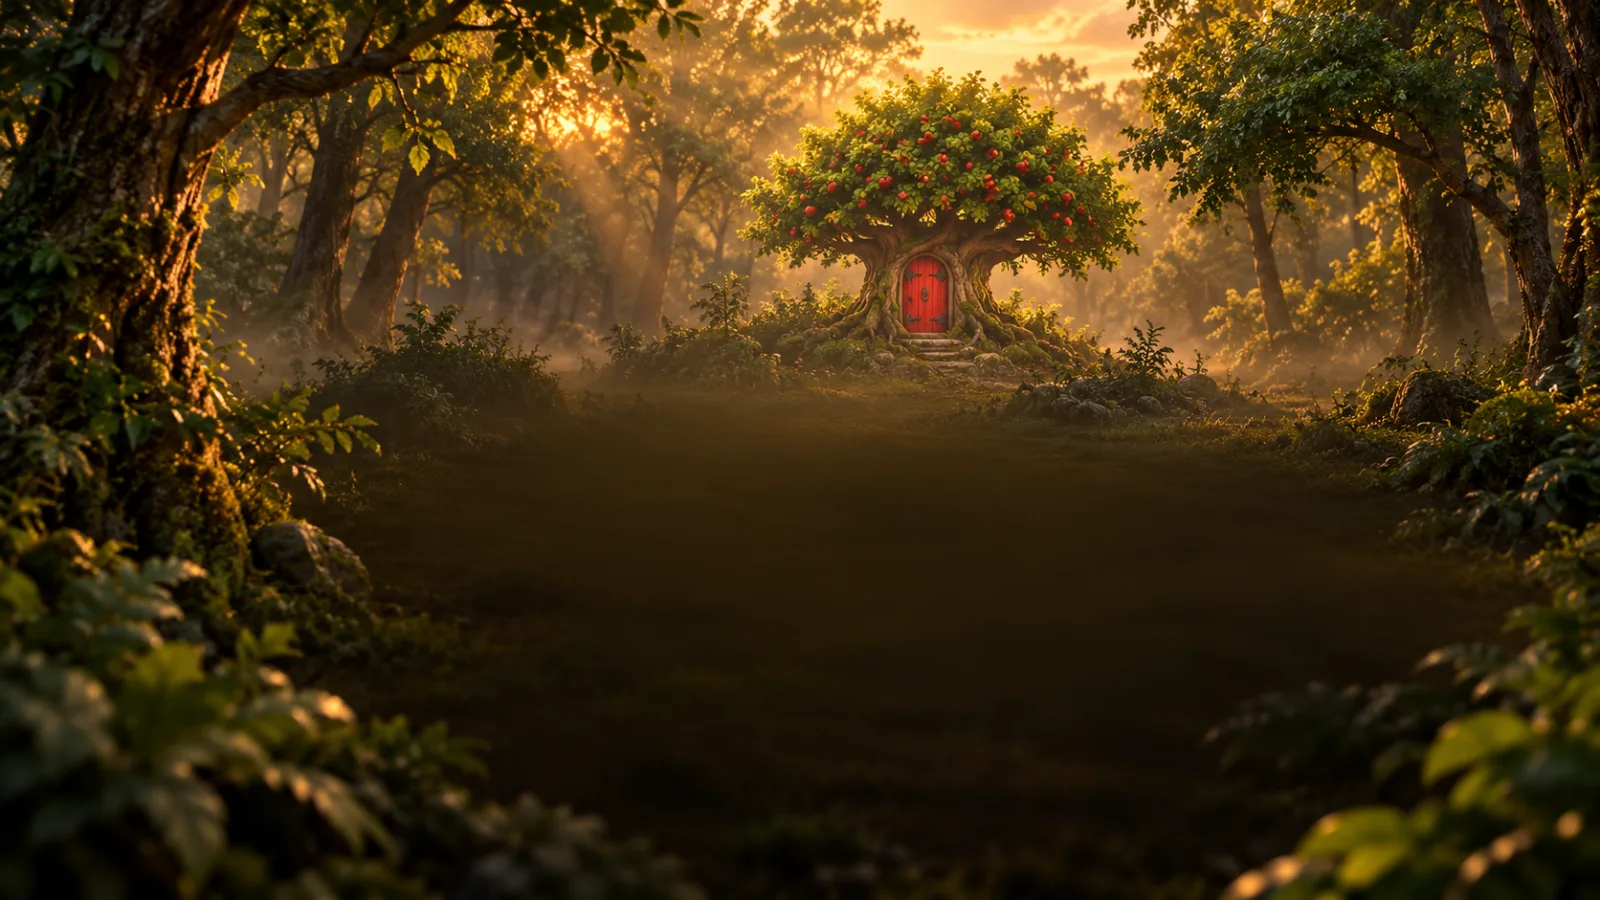
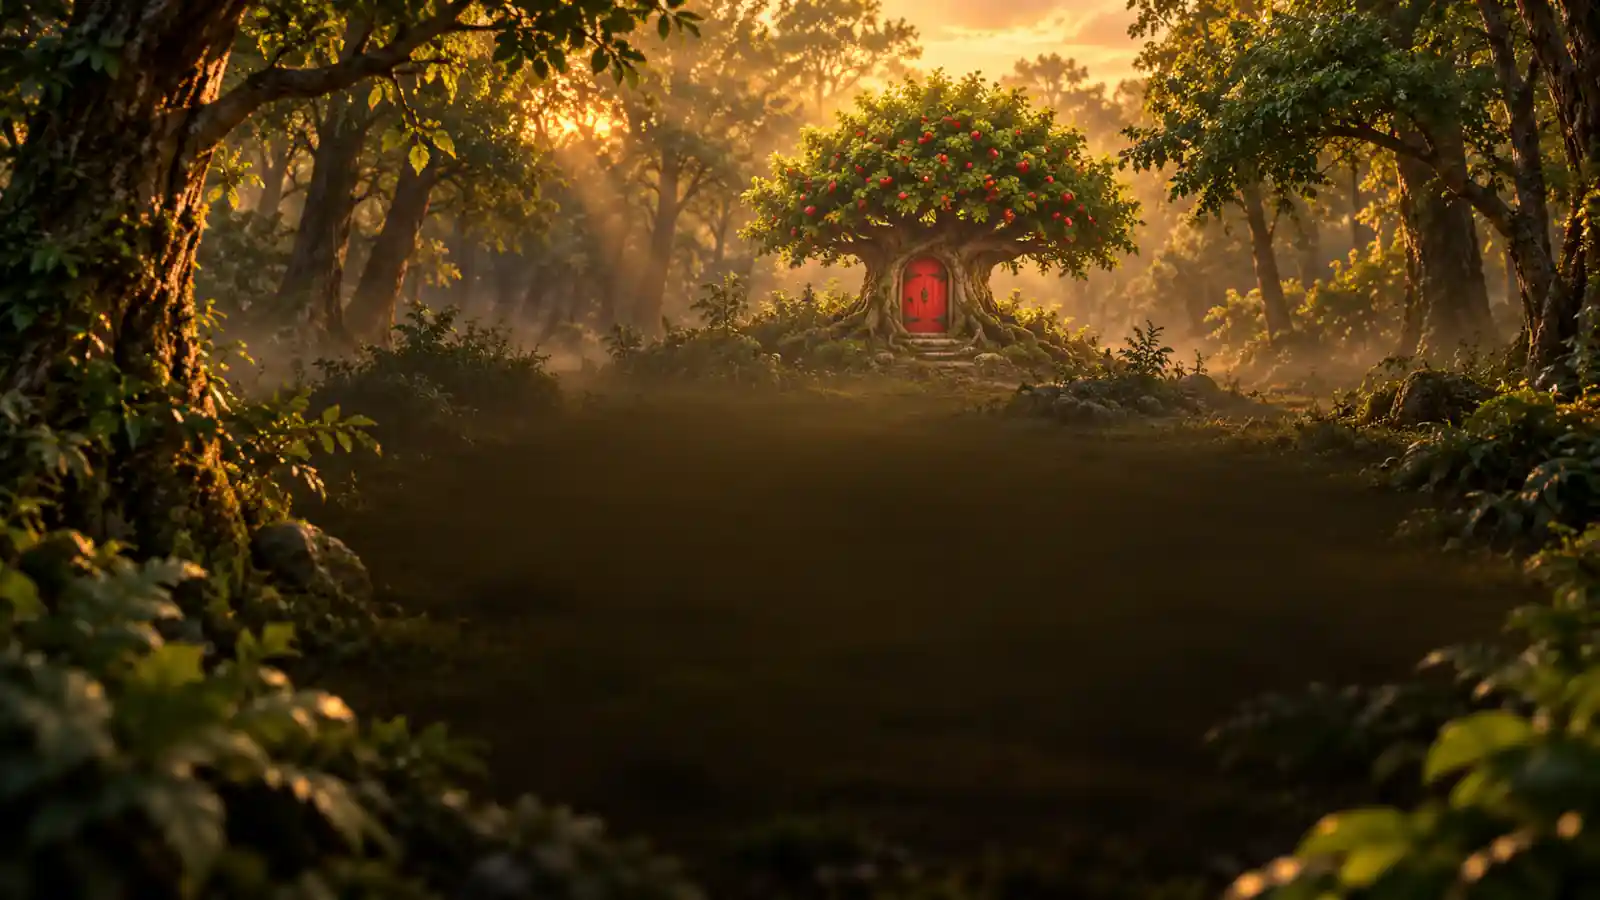
asset fix

diff --git a/sw.js b/sw.js
@@ -67,6 +67,7 @@ const CURRENT_CACHES = {
   // forest world backdrop, lane chip; Words lane on playing cards.
   // Games Pass 11 (2026-10-22): Sentences lane on notebook paper; Sentence
   // Speed start screen fixed (unclosed results wrapper hid it since Pass 3).
+  // Menu forest backgrounds re-encoded to stay under the deployed image budget.
   pages:  'booha-pages-2026-479',
   // JavaScript is served network-first with a cached fallback (see fetch
   // routing below), so connected pages pick up current scripts promptly.
@@ -241,7 +242,7 @@ const CURRENT_CACHES = {
   // Batty Booha photoreal static-sprite refresh (2026-09-18).
   // Halloween six-week skin schedule, dynamic unlock copy, and landing-menu
   // Batty decoration pass (2026-09-23): invalidate cached shells/runtime.
-  assets: 'booha-assets-2026-592',
+  assets: 'booha-assets-2026-593',
   // Utsuroba episodes gained vocabulary (8 words per memory per level).
   decks:  'booha-decks-2026-315',
 };
